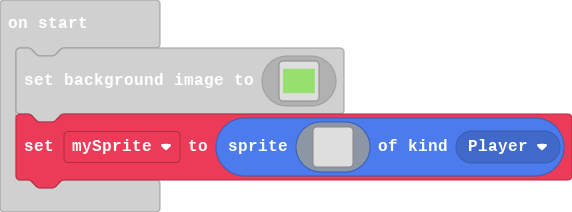
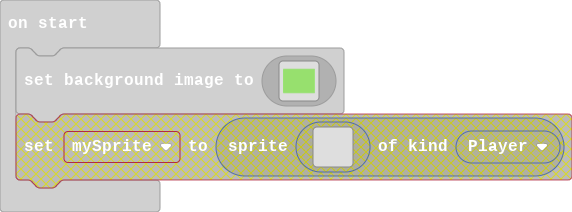
Update main.blocks, main.ts

Changed region(s): [[0.0297, 0.5377, 1.0, 0.9057]]

diff --git a/main.ts b/main.ts
@@ -120,21 +120,3 @@ scene.setBackgroundImage(img`
     7777777777777777777777777777777777777777777777777777777777777777777777777777777777777777777777777777777777777777777777777777777777777777777777777777777777777777
     7777777777777777777777777777777777777777777777777777777777777777777777777777777777777777777777777777777777777777777777777777777777777777777777777777777777777777
     `)
-let mySprite = sprites.create(img`
-    . . . . . . . . . . . . . . . . 
-    . . . . . . . . . . . . . . . . 
-    . . . . . . . . . . . . . . . . 
-    . . . . . . . . . . . . . . . . 
-    . . . . . . . . . . . . . . . . 
-    . . . . . . . . . . . . . . . . 
-    . . . . . . . . . . . . . . . . 
-    . . . . . . . . . . . . . . . . 
-    . . . . . . . . . . . . . . . . 
-    . . . . . . . . . . . . . . . . 
-    . . . . . . . . . . . . . . . . 
-    . . . . . . . . . . . . . . . . 
-    . . . . . . . . . . . . . . . . 
-    . . . . . . . . . . . . . . . . 
-    . . . . . . . . . . . . . . . . 
-    . . . . . . . . . . . . . . . . 
-    `, SpriteKind.Player)
